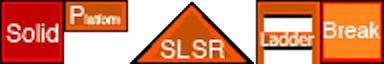
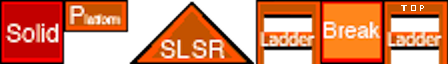
Update all metatiles to add the top ladder image Fix problem with ladder

diff --git a/src/entity/entity.js b/src/entity/entity.js
@@ -487,6 +487,14 @@
 			 * @name me.ObjectEntity#onladder
 			 */
 			this.onladder = false;
+			/**
+			 * equal true if the entity can go down on a ladder<br>
+			 * (!) READ ONLY property
+			 * @public
+			 * @type Boolean
+			 * @name me.ObjectEntity#disableTopLadderCollision
+			 */
+			this.disableTopLadderCollision = false;
 
 			// to enable collision detection
 			this.collidable = settings.collidable || false;
@@ -659,6 +667,7 @@
 			if (this.onladder) {
 				this.vel.y = (up) ? -this.accel.x * me.timer.tick
 						: this.accel.x * me.timer.tick;
+				this.disableTopLadderCollision = !up;
 				return true;
 			}
 			return false;
@@ -847,84 +856,85 @@
 		updateMovement : function() {
 
 			this.computeVelocity(this.vel);
+			
+			// Adjust position only on collidable object
+			if (this.collidable) {
+				// check for collision
+				var collision = this.collisionMap.checkCollision(this.collisionBox, this.vel);
 
-			// check for collision
-			var collision = this.collisionMap.checkCollision(this.collisionBox, this.vel);
-
-			// update some flags
-			this.onslope  = collision.yprop.isSlope || collision.xprop.isSlope;
-			// clear the ladder flag
-			this.onladder = false;
+				// update some flags
+				this.onslope  = collision.yprop.isSlope || collision.xprop.isSlope;
+				// clear the ladder flag
+				this.onladder = false;
 
 
 
-			// y collision
-			if (collision.y) {
+				// y collision
+				if (collision.y) {
+					// going down, collision with the floor
+					this.onladder = collision.yprop.isLadder || collision.yprop.isTopLadder;
 
-				// going down, collision with the floor
-				this.onladder = collision.yprop.isLadder;
-
-				if (collision.y > 0) {
-					if (collision.yprop.isSolid	|| (collision.yprop.isPlatform && (this.collisionBox.bottom - 1 <= collision.ytile.pos.y))) {
-						// adjust position to the corresponding tile
-						this.pos.y = ~~this.pos.y;
-						this.vel.y = (this.falling) ?collision.ytile.pos.y - this.collisionBox.bottom: 0 ;
-						this.falling = false;
-					}
-					else if (collision.yprop.isSlope && !this.jumping) {
-						// we stop falling
-						this.checkSlope(collision.ytile, collision.yprop.isLeftSlope);
-						this.falling = false;
-					}
-					else if (collision.yprop.isBreakable) {
-						if  (this.canBreakTile) {
-							// remove the tile
-							me.game.currentLevel.clearTile(collision.ytile.col, collision.ytile.row);
-							if (this.onTileBreak)
-								this.onTileBreak();
-						}
-						else {
+					if (collision.y > 0) {
+						if (collision.yprop.isSolid	|| (collision.yprop.isPlatform && (this.collisionBox.bottom - 1 <= collision.ytile.pos.y)) || (collision.yprop.isTopLadder && !this.disableTopLadderCollision)) {
 							// adjust position to the corresponding tile
 							this.pos.y = ~~this.pos.y;
-							this.vel.y = (this.falling) ?collision.ytile.pos.y - this.collisionBox.bottom: 0;
+							this.vel.y = (this.falling) ?collision.ytile.pos.y - this.collisionBox.bottom: 0 ;
 							this.falling = false;
 						}
-					}
-				}
-				// going up, collision with ceiling
-				else if (collision.y < 0) {
-					if (!collision.yprop.isPlatform	&& !collision.yprop.isLadder) {
-						this.falling = true;
-						// cancel the y velocity
-						this.vel.y = 0;
-					}
-				}
-			}
-
-			// x collision
-			if (collision.x) {
-
-				this.onladder = collision.xprop.isLadder ;
-
-				if (collision.xprop.isSlope && !this.jumping) {
-					this.checkSlope(collision.xtile, collision.xprop.isLeftSlope);
-					this.falling = false;
-				} else {
-					// can walk through the platform & ladder
-					if (!collision.xprop.isPlatform && !collision.xprop.isLadder) {
-						if (collision.xprop.isBreakable	&& this.canBreakTile) {
-							// remove the tile
-							me.game.currentLevel.clearTile(collision.xtile.col, collision.xtile.row);
-							if (this.onTileBreak) {
-								this.onTileBreak();
+						else if (collision.yprop.isSlope && !this.jumping) {
+							// we stop falling
+							this.checkSlope(collision.ytile, collision.yprop.isLeftSlope);
+							this.falling = false;
+						}
+						else if (collision.yprop.isBreakable) {
+							if  (this.canBreakTile) {
+								// remove the tile
+								me.game.currentLevel.clearTile(collision.ytile.col, collision.ytile.row);
+								if (this.onTileBreak)
+									this.onTileBreak();
 							}
-						} else {
-							this.vel.x = 0;
+							else {
+								// adjust position to the corresponding tile
+								this.pos.y = ~~this.pos.y;
+								this.vel.y = (this.falling) ?collision.ytile.pos.y - this.collisionBox.bottom: 0;
+								this.falling = false;
+							}
+						}
+					}
+					// going up, collision with ceiling
+					else if (collision.y < 0) {
+						if (!collision.yprop.isPlatform	&& !collision.yprop.isLadder && !collision.yprop.isTopLadder) {
+							this.falling = true;
+							// cancel the y velocity
+							this.vel.y = 0;
+						}
+					}
+				}
+
+				// x collision
+				if (collision.x) {
+
+					this.onladder = collision.xprop.isLadder || collision.yprop.isTopLadder;
+
+					if (collision.xprop.isSlope && !this.jumping) {
+						this.checkSlope(collision.xtile, collision.xprop.isLeftSlope);
+						this.falling = false;
+					} else {
+						// can walk through the platform & ladder
+						if (!collision.xprop.isPlatform && !collision.xprop.isLadder && !collision.xprop.isTopLadder) {
+							if (collision.xprop.isBreakable	&& this.canBreakTile) {
+								// remove the tile
+								me.game.currentLevel.clearTile(collision.xtile.col, collision.xtile.row);
+								if (this.onTileBreak) {
+									this.onTileBreak();
+								}
+							} else {
+								this.vel.x = 0;
+							}
 						}
 					}
 				}
 			}
-
 
 			// update player position
 			this.pos.add(this.vel);

diff --git a/src/level/TMXLayer.js b/src/level/TMXLayer.js
@@ -669,17 +669,15 @@
 			
 			// check for y movement
 			// left, y corner
-			if ( pv.y != 0 ) {
-				res.ytile = this.getTile((pv.x < 0) ? ~~obj.left : Math.ceil(obj.right - 1), y);
+			res.ytile = this.getTile((pv.x < 0) ? ~~obj.left : Math.ceil(obj.right - 1), y);
+			if (res.ytile && this.tileset.isTileCollidable(res.ytile.tileId)) {
+				res.y = pv.y || 1;
+				res.yprop = this.tileset.getTileProperties(res.ytile.tileId);
+			} else { // right, y corner
+				res.ytile = this.getTile((pv.x < 0) ? Math.ceil(obj.right - 1) : ~~obj.left, y);
 				if (res.ytile && this.tileset.isTileCollidable(res.ytile.tileId)) {
 					res.y = pv.y || 1;
 					res.yprop = this.tileset.getTileProperties(res.ytile.tileId);
-				} else { // right, y corner
-					res.ytile = this.getTile((pv.x < 0) ? Math.ceil(obj.right - 1) : ~~obj.left, y);
-					if (res.ytile && this.tileset.isTileCollidable(res.ytile.tileId)) {
-						res.y = pv.y || 1;
-						res.yprop = this.tileset.getTileProperties(res.ytile.tileId);
-					}
 				}
 			}
 			// return the collide object

diff --git a/src/level/TMXTileset.js b/src/level/TMXTileset.js
@@ -108,6 +108,7 @@
 			L_SLOPE : "lslope",
 			R_SLOPE : "rslope",
 			LADDER : "ladder",
+			TOPLADDER : "topladder",
 			BREAKABLE : "breakable"
 		},
 
@@ -268,6 +269,7 @@
 			prop.isRightSlope = prop.type ? prop.type.toLowerCase() === this.type.R_SLOPE : false;
 			prop.isBreakable = prop.type ? prop.type.toLowerCase() === this.type.BREAKABLE : false;
 			prop.isLadder = prop.type ? prop.type.toLowerCase() === this.type.LADDER : false;
+			prop.isTopLadder = prop.type ? prop.type.toLowerCase() === this.type.TOPLADDER : false;
 			prop.isSlope = prop.isLeftSlope || prop.isRightSlope;
 			
 			// ensure the collidable flag is correct
